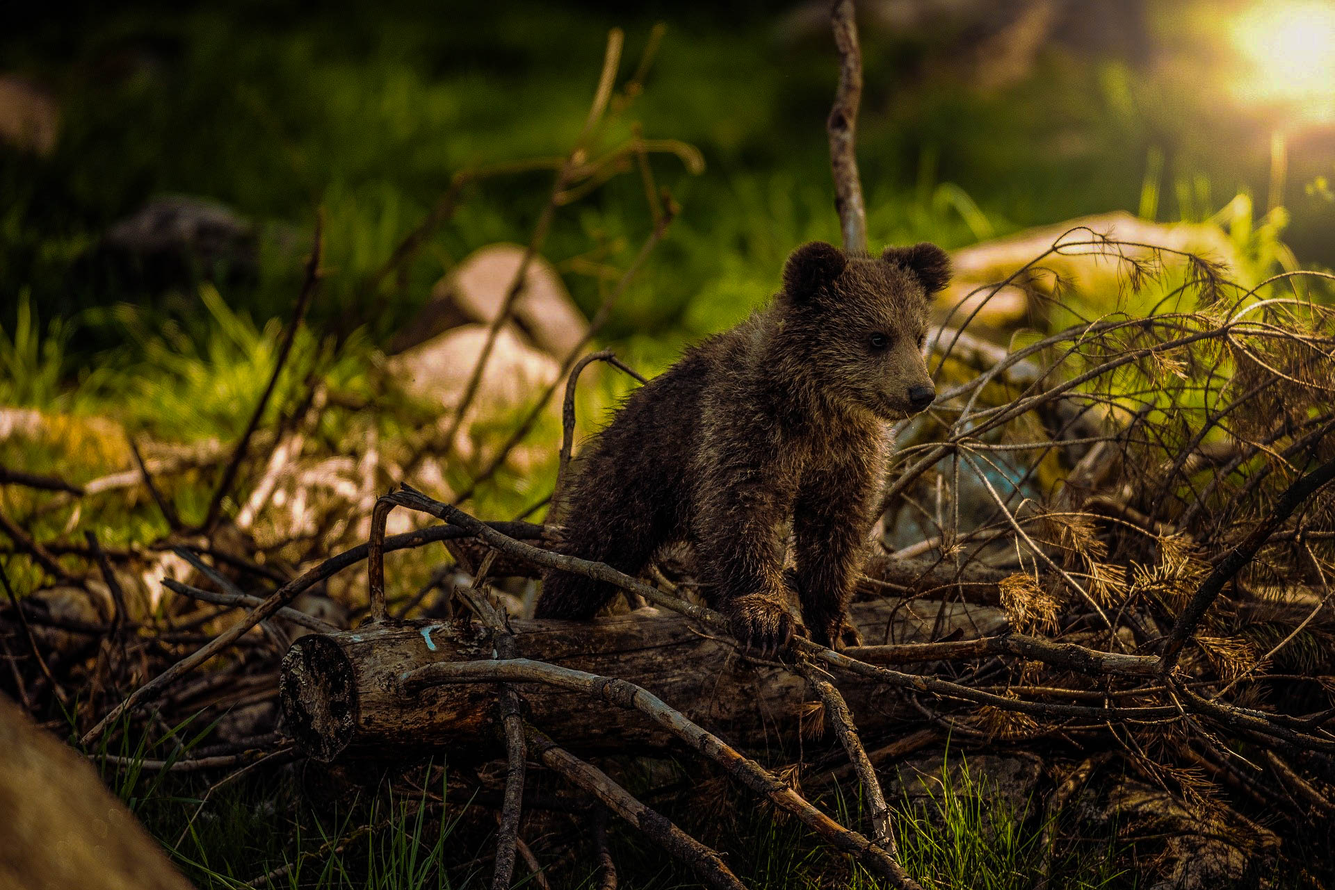
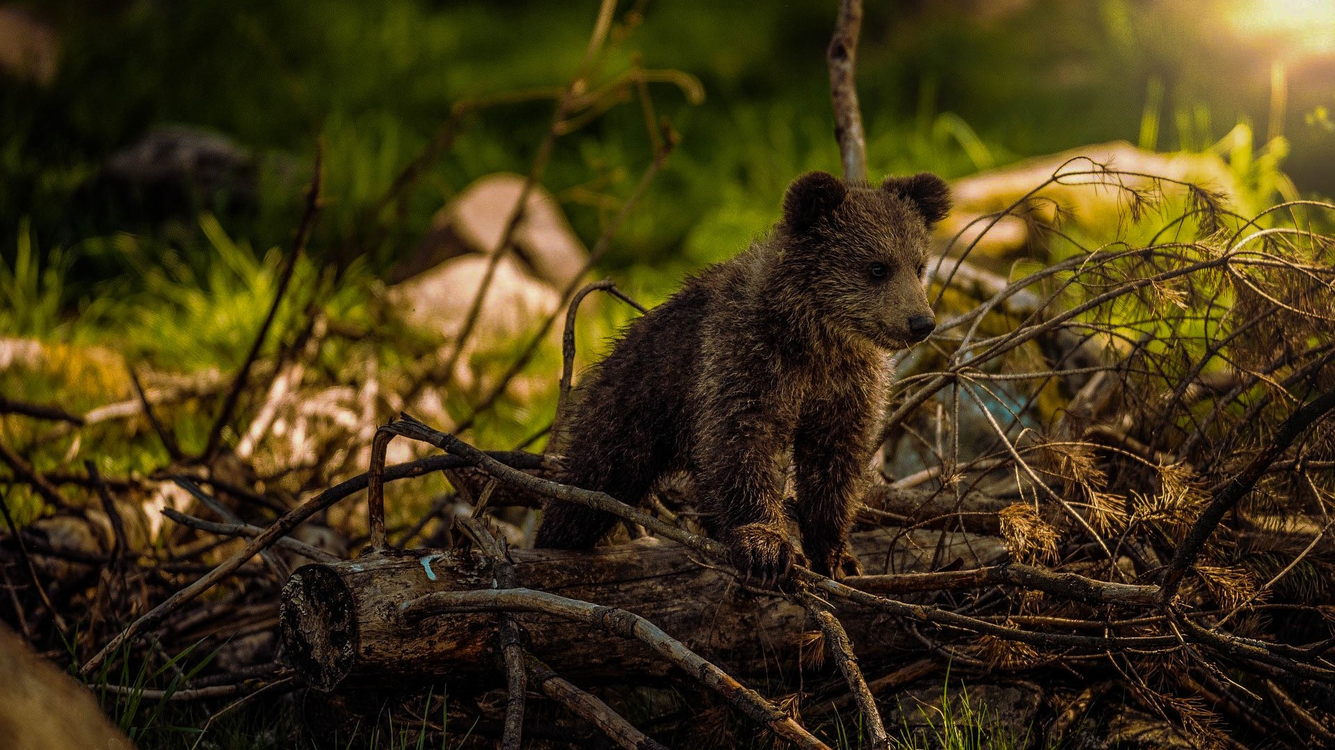
change photo at slider

diff --git a/index.html b/index.html
@@ -185,21 +185,21 @@
         </ol>
         <div class="carousel-inner">
             <div class="carousel-item active crausel-image-size-custom">
-                <img src="./lib/assets/img/home/slide-1.jpg" class="d-block w-100" alt="...">
+                <img src="./lib/assets/img/home/slide-1.png" class="d-block w-100" alt="...">
                 <div class="carousel-caption d-none d-md-block txt-slider-custom">
                     <h5>First slide label</h5>
                     <p>Nulla vitae elit libero, a pharetra augue mollis interdum.</p>
                 </div>
             </div>
             <div class="carousel-item crausel-image-size-custom">
-                <img src="./lib/assets/img/home/slide-2.jpg" class="d-block w-100 " alt="...">
+                <img src="./lib/assets/img/home/slide-2.png" class="d-block w-100 " alt="...">
                 <div class="carousel-caption d-none d-md-block txt-slider-custom">
                     <h5>Second slide label</h5>
                     <p>Lorem ipsum dolor sit amet, consectetur adipiscing elit.</p>
                 </div>
             </div>
             <div class="carousel-item crausel-image-size-custom">
-                <img src="./lib/assets/img/home/slide-3.jpg" class="d-block w-100 " alt="...">
+                <img src="./lib/assets/img/home/slide-3.png" class="d-block w-100 " alt="...">
                 <div class="carousel-caption d-none d-md-block txt-slider-custom">
                     <h5>Third slide label</h5>
                     <p>Praesent commodo cursus magna, vel scelerisque nisl consectetur.</p>
